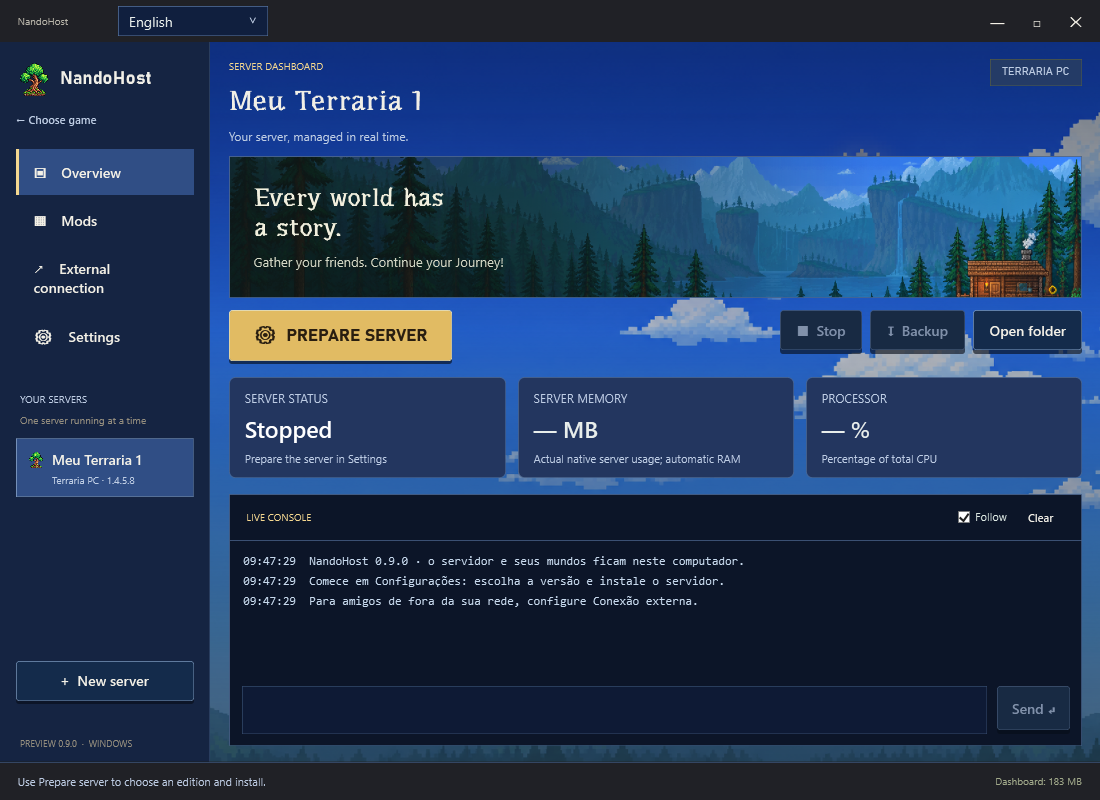
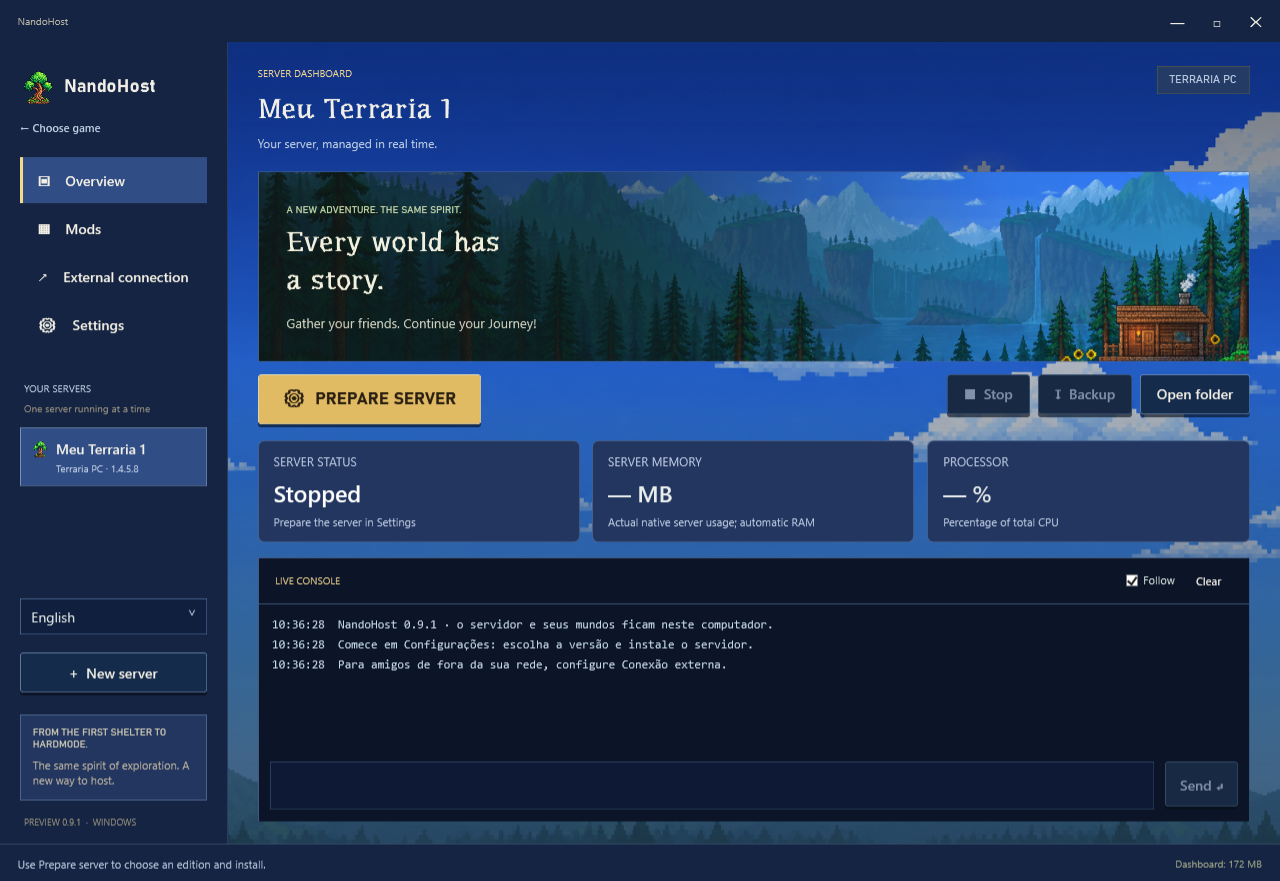
Blend window chrome into game themes and move language selection into interface

diff --git a/src/NandoHost.App/MainWindow.xaml b/src/NandoHost.App/MainWindow.xaml
@@ -1,14 +1,24 @@
 <Window x:Class="NandoHost.App.MainWindow" xmlns="http://schemas.microsoft.com/winfx/2006/xaml/presentation" xmlns:x="http://schemas.microsoft.com/winfx/2006/xaml" xmlns:loc="clr-namespace:NandoHost.App" xmlns:shell="clr-namespace:System.Windows.Shell;assembly=PresentationFramework"
         Title="NandoHost" Icon="Assets/Icons/nandohost-red.ico" Style="{StaticResource {x:Type Window}}" Width="1280" Height="920" MinWidth="960" MinHeight="640" WindowStartupLocation="CenterScreen" WindowStyle="None" ResizeMode="CanResize">
+  <Window.Resources>
+    <Style x:Key="ChromeSurface" TargetType="Border">
+      <Setter Property="Background" Value="{DynamicResource SidebarSurface}"/>
+      <Style.Triggers>
+        <DataTrigger Binding="{Binding Visibility, ElementName=GameHome}" Value="Visible">
+          <Setter Property="Background" Value="#0C1721"/>
+        </DataTrigger>
+      </Style.Triggers>
+    </Style>
+  </Window.Resources>
   <shell:WindowChrome.WindowChrome>
     <shell:WindowChrome CaptionHeight="0" ResizeBorderThickness="6" GlassFrameThickness="0" CornerRadius="0" UseAeroCaptionButtons="False"/>
   </shell:WindowChrome.WindowChrome>
   <Border x:Name="WindowSurface" BorderThickness="0">
     <Grid>
       <Grid.RowDefinitions><RowDefinition Height="42"/><RowDefinition Height="*"/><RowDefinition Height="38"/></Grid.RowDefinitions>
-      <Border Grid.Row="0" Background="#202126" MouseLeftButtonDown="TitleDrag">
+      <Border x:Name="TitleSurface" Grid.Row="0" Style="{StaticResource ChromeSurface}" MouseLeftButtonDown="TitleDrag">
         <Grid Margin="18,0,4,0">
-          <ComboBox x:Name="LanguageBox" Width="150" Height="30" MinHeight="0" HorizontalAlignment="Left" VerticalAlignment="Center" Margin="100,0,0,0" Padding="8,3" SelectedValuePath="Tag" SelectionChanged="LanguageSelectionChanged" AutomationProperties.Name="Idioma / Language" ToolTip="Idioma / Language"><ComboBoxItem Content="Português (Brasil)" Tag="pt-BR"/><ComboBoxItem Content="English" Tag="en-US"/></ComboBox><TextBlock Text="NandoHost" FontSize="10" Foreground="#B8B5A9" VerticalAlignment="Center"/>
+          <TextBlock Text="NandoHost" FontSize="10" Foreground="#B8B5A9" VerticalAlignment="Center"/>
           <StackPanel Orientation="Horizontal" HorizontalAlignment="Right">
             <Button Style="{StaticResource Flat}" Content="—" Click="MinimizeClick" Padding="14,7" Background="Transparent" Margin="0" ToolTip="{loc:Translate Key=Text001}"/>
             <Button Style="{StaticResource Flat}" x:Name="MaximizeButton" Content="□" Click="MaximizeClick" Padding="14,7" Background="Transparent" Margin="0" ToolTip="{loc:Translate Key=Text002}"/>
@@ -32,7 +42,7 @@
               <Button x:Name="NetworkNav" Style="{StaticResource Nav}" Content="{loc:Translate Key=Text006}" Tag="2" Click="NavigateClick"/>
               <Button x:Name="SettingsNav" Style="{StaticResource Nav}" Content="{loc:Translate Key=Text007}" Tag="3" Click="NavigateClick"/>
             </StackPanel>
-            <StackPanel Grid.Row="2" Margin="4,32,0,12">
+            <StackPanel x:Name="ServerListHeading" Grid.Row="2" Margin="4,32,0,12">
               <TextBlock Text="{loc:Translate Key=Text008}" FontSize="10" Foreground="{DynamicResource Muted}"/>
               <TextBlock Text="{loc:Translate Key=Text009}" FontSize="10" Foreground="#938D7E" Margin="0,7,0,0"/>
             </StackPanel>
@@ -40,6 +50,7 @@
               <ListBox.ItemTemplate><DataTemplate><Grid><Grid.ColumnDefinitions><ColumnDefinition Width="25"/><ColumnDefinition Width="*"/></Grid.ColumnDefinitions><Image Width="18" Height="20" VerticalAlignment="Top" Margin="0,2,7,0"><Image.Style><Style TargetType="Image"><Setter Property="Source" Value="{StaticResource MinecraftGameImage}"/><Style.Triggers><DataTrigger Binding="{Binding IsTerraria}" Value="True"><Setter Property="Source" Value="{StaticResource TerrariaGameImage}"/></DataTrigger></Style.Triggers></Style></Image.Style></Image><StackPanel Grid.Column="1"><TextBlock ToolTip="{Binding Name}" Text="{Binding Name}" FontWeight="SemiBold" TextTrimming="CharacterEllipsis" TextWrapping="NoWrap"/><TextBlock FontSize="10" Foreground="{DynamicResource Muted}" Margin="0,5,0,0"><Run Text="{Binding EditionLabel, Mode=OneWay}"/><Run Text=" · "/><Run Text="{Binding MinecraftVersion}"/></TextBlock></StackPanel></Grid></DataTemplate></ListBox.ItemTemplate>
             </ListBox>
             <StackPanel Grid.Row="4">
+              <ComboBox x:Name="GameLanguageBox" Height="36" MinHeight="0" HorizontalAlignment="Stretch" VerticalAlignment="Center" Margin="0,0,0,6" Padding="8,3" SelectedValuePath="Tag" SelectionChanged="LanguageSelectionChanged" AutomationProperties.Name="Idioma / Language" ToolTip="Idioma / Language"><ComboBoxItem Content="Português (Brasil)" Tag="pt-BR"/><ComboBoxItem Content="English" Tag="en-US"/></ComboBox>
               <Button x:Name="NewButton" Content="{loc:Translate Key=Text010}" Click="NewServerClick" Margin="0,12,0,18"/>
               <Border x:Name="SidebarNote" BorderBrush="{DynamicResource CardBorder}" BorderThickness="1" Background="{StaticResource DirtBrush}" Padding="12" RenderOptions.EdgeMode="Aliased"><StackPanel><TextBlock x:Name="SidebarNoteTitle" Text="{loc:Translate Key=Text011}" FontFamily="Bahnschrift" FontSize="10" Foreground="#D7D2BC"/><TextBlock Text="{loc:Translate Key=Text012}" FontSize="11" Foreground="#C2B8A4" Margin="0,7,0,0"/></StackPanel></Border>
               <TextBlock Text="{loc:Translate Key=Text013}" FontSize="9" Foreground="#938D7E" Margin="4,15,0,0"/>
@@ -217,6 +228,11 @@
       </Grid>
       <Grid Grid.Row="1" x:Name="GameHome" Background="#07111A" Panel.ZIndex="10">
         <Grid.Resources>
+          <SolidColorBrush x:Key="InputSurface" Color="#09131C"/>
+          <SolidColorBrush x:Key="InputBorder" Color="#304450"/>
+          <SolidColorBrush x:Key="PopupSurface" Color="#10202D"/>
+          <SolidColorBrush x:Key="Muted" Color="#95ADBC"/>
+          <SolidColorBrush x:Key="Accent" Color="#E6B76C"/>
           <SolidColorBrush x:Key="TrackSurface" Color="#071019"/><SolidColorBrush x:Key="ThumbSurface" Color="#334E5F"/><SolidColorBrush x:Key="ThumbHover" Color="#658397"/>
           <Style x:Key="LibraryGame" TargetType="Button">
             <Setter Property="Foreground" Value="#E1E9ED"/><Setter Property="Background" Value="Transparent"/><Setter Property="BorderBrush" Value="Transparent"/><Setter Property="Margin" Value="0,0,0,3"/><Setter Property="Padding" Value="18,13"/><Setter Property="Cursor" Value="Hand"/>
@@ -247,13 +263,14 @@
         </Grid.Resources>
         <Grid.RowDefinitions><RowDefinition Height="76"/><RowDefinition Height="*"/></Grid.RowDefinitions>
         <Border Background="#0C1721" BorderBrush="#29404D" BorderThickness="0,0,0,1" Padding="26,0">
-          <Grid><Grid.ColumnDefinitions><ColumnDefinition Width="205"/><ColumnDefinition Width="*"/><ColumnDefinition Width="190"/></Grid.ColumnDefinitions>
+          <Grid><Grid.ColumnDefinitions><ColumnDefinition Width="205"/><ColumnDefinition Width="*"/><ColumnDefinition Width="185"/><ColumnDefinition Width="190"/></Grid.ColumnDefinitions>
             <TextBlock x:Name="HomeBrandName" FontFamily="Bahnschrift" FontSize="27" FontWeight="SemiBold" VerticalAlignment="Center" TextWrapping="NoWrap"><Run Text="Nando" Foreground="#F1F1E9"/><Run Text="Host" Foreground="#E9BE7D"/></TextBlock>
             <StackPanel Grid.Column="1" Orientation="Horizontal" VerticalAlignment="Center">
               <Button x:Name="MinecraftGameButton" Style="{StaticResource LibraryGame}" Click="HomeSelectGameClick" Tag="Minecraft" MouseEnter="LibraryIconHover" MouseLeave="LibraryIconHover" AutomationProperties.Name="{loc:Translate Key=Text157}" Padding="13,12" Margin="0,0,8,0"><StackPanel Orientation="Horizontal"><Image Source="{StaticResource MinecraftGameImage}" Width="23" Height="23" Margin="0,0,9,0" RenderTransformOrigin="0.5,0.5"/><TextBlock Text="Minecraft" FontSize="13" VerticalAlignment="Center"/></StackPanel></Button>
               <Button x:Name="TerrariaGameButton" Style="{StaticResource LibraryGame}" Click="HomeSelectGameClick" Tag="Terraria" MouseEnter="LibraryIconHover" MouseLeave="LibraryIconHover" AutomationProperties.Name="{loc:Translate Key=Text158}" Padding="13,12" Margin="0"><StackPanel Orientation="Horizontal"><Image Source="{StaticResource TerrariaGameImage}" Width="23" Height="23" Margin="0,0,9,0" RenderTransformOrigin="0.5,0.5"/><TextBlock Text="Terraria" FontSize="13" VerticalAlignment="Center"/></StackPanel></Button>
             </StackPanel>
-            <Grid Grid.Column="2" VerticalAlignment="Center"><TextBox x:Name="HomeGameSearch" AutomationProperties.Name="{loc:Translate Key=Text159}" ToolTip="{loc:Translate Key=Text159}" Background="#09131C" BorderBrush="#304450" Foreground="#E1E9EF" FontSize="12" Padding="30,9,10,9" TextChanged="HomeGameSearchChanged" MaxLength="80"/><TextBlock Text="⌕" FontSize="20" Foreground="#91A5B1" Margin="9,0,0,0" VerticalAlignment="Center" IsHitTestVisible="False"/><TextBlock Text="{loc:Translate Key=Text160}" Foreground="#8097A7" FontSize="11" Margin="32,0,0,0" VerticalAlignment="Center" IsHitTestVisible="False"><TextBlock.Style><Style TargetType="TextBlock"><Setter Property="Visibility" Value="Collapsed"/><Style.Triggers><DataTrigger Binding="{Binding Text, ElementName=HomeGameSearch}" Value=""><Setter Property="Visibility" Value="Visible"/></DataTrigger></Style.Triggers></Style></TextBlock.Style></TextBlock></Grid>
+            <ComboBox x:Name="LanguageBox" Grid.Column="2" Height="36" MinHeight="0" HorizontalAlignment="Stretch" VerticalAlignment="Center" Margin="0,0,12,0" Padding="8,3" SelectedValuePath="Tag" SelectionChanged="LanguageSelectionChanged" AutomationProperties.Name="Idioma / Language" ToolTip="Idioma / Language"><ComboBoxItem Content="Português (Brasil)" Tag="pt-BR"/><ComboBoxItem Content="English" Tag="en-US"/></ComboBox>
+            <Grid Grid.Column="3" VerticalAlignment="Center"><TextBox x:Name="HomeGameSearch" AutomationProperties.Name="{loc:Translate Key=Text159}" ToolTip="{loc:Translate Key=Text159}" Background="#09131C" BorderBrush="#304450" Foreground="#E1E9EF" FontSize="12" Padding="30,9,10,9" TextChanged="HomeGameSearchChanged" MaxLength="80"/><TextBlock Text="⌕" FontSize="20" Foreground="#91A5B1" Margin="9,0,0,0" VerticalAlignment="Center" IsHitTestVisible="False"/><TextBlock Text="{loc:Translate Key=Text160}" Foreground="#8097A7" FontSize="11" Margin="32,0,0,0" VerticalAlignment="Center" IsHitTestVisible="False"><TextBlock.Style><Style TargetType="TextBlock"><Setter Property="Visibility" Value="Collapsed"/><Style.Triggers><DataTrigger Binding="{Binding Text, ElementName=HomeGameSearch}" Value=""><Setter Property="Visibility" Value="Visible"/></DataTrigger></Style.Triggers></Style></TextBlock.Style></TextBlock></Grid>
           </Grid>
         </Border>
         <ScrollViewer Grid.Row="1" VerticalScrollBarVisibility="Auto" HorizontalScrollBarVisibility="Disabled">
@@ -321,7 +338,7 @@
           <TextBlock Text="{loc:Translate Key=Text014}" FontFamily="Bahnschrift" FontSize="11" Foreground="#BDCCAD" HorizontalAlignment="Center"/>
         </StackPanel>
       </Grid>
-      <Border Grid.Row="2" Background="#202126" BorderBrush="{DynamicResource SidebarBorder}" BorderThickness="0,1,0,0"><Grid Margin="18,0"><Grid.ColumnDefinitions><ColumnDefinition Width="*"/><ColumnDefinition Width="Auto"/><ColumnDefinition Width="Auto"/></Grid.ColumnDefinitions><TextBlock x:Name="StatusText" Text="{loc:Translate Key=Text177}" Foreground="{DynamicResource Muted}" FontSize="11" VerticalAlignment="Center" TextTrimming="CharacterEllipsis" TextWrapping="NoWrap"/><Button Style="{StaticResource Flat}" Grid.Column="1" x:Name="CancelButton" Content="{loc:Translate Key=Text178}" Click="CancelClick" Visibility="Collapsed" Padding="10,3" Background="Transparent" FontSize="11" Margin="10,3"/><TextBlock Grid.Column="2" x:Name="AppMemoryText" Text="{loc:Translate Key=Text179}" FontSize="10" Foreground="#A2AB8B" VerticalAlignment="Center" Margin="16,0,0,0"/></Grid></Border>
+      <Border x:Name="FooterSurface" Grid.Row="2" Style="{StaticResource ChromeSurface}" BorderBrush="{DynamicResource SidebarBorder}" BorderThickness="0,1,0,0"><Grid Margin="18,0"><Grid.ColumnDefinitions><ColumnDefinition Width="*"/><ColumnDefinition Width="Auto"/><ColumnDefinition Width="Auto"/></Grid.ColumnDefinitions><TextBlock x:Name="StatusText" Text="{loc:Translate Key=Text177}" Foreground="{DynamicResource Muted}" FontSize="11" VerticalAlignment="Center" TextTrimming="CharacterEllipsis" TextWrapping="NoWrap"/><Button Style="{StaticResource Flat}" Grid.Column="1" x:Name="CancelButton" Content="{loc:Translate Key=Text178}" Click="CancelClick" Visibility="Collapsed" Padding="10,3" Background="Transparent" FontSize="11" Margin="10,3"/><TextBlock Grid.Column="2" x:Name="AppMemoryText" Text="{loc:Translate Key=Text179}" FontSize="10" Foreground="#A2AB8B" VerticalAlignment="Center" Margin="16,0,0,0"/></Grid></Border>
     </Grid>
   </Border>
 </Window>

diff --git a/src/NandoHost.App/MainWindow.Language.cs b/src/NandoHost.App/MainWindow.Language.cs
@@ -14,7 +14,7 @@ public partial class MainWindow
 {
     private void LanguageSelectionChanged(object sender, SelectionChangedEventArgs e)
     {
-        if (!uiReady || LanguageBox.SelectedValue is not string language || language == CultureCode) return;
+        if (!uiReady || sender is not ComboBox selector || selector.SelectedValue is not string language || language == CultureCode) return;
         try
         {
             UiPreferencesStore.Save(store.Root, language);
@@ -22,7 +22,7 @@ public partial class MainWindow
         }
         catch (Exception error) when (error is IOException or UnauthorizedAccessException)
         {
-            LanguageBox.SelectedValue = CultureCode;
+            LanguageBox.SelectedValue = GameLanguageBox.SelectedValue = CultureCode;
             MessageBox.Show(this, Tr("Não foi possível salvar o idioma. Verifique a permissão de escrita na pasta Data."), "NandoHost", MessageBoxButton.OK, MessageBoxImage.Warning);
         }
     }
@@ -30,7 +30,7 @@ public partial class MainWindow
     private void OnLanguageChanged(object? sender, EventArgs e)
     {
         if (!uiReady || closed) return;
-        LanguageBox.SelectedValue = CultureCode;
+        LanguageBox.SelectedValue = GameLanguageBox.SelectedValue = CultureCode;
         CommandPopup.IsOpen = false;
         // Refresh presentation only. Never load/save a profile or reload its fields.
         UpdateControls();
@@ -66,6 +66,14 @@ public partial class MainWindow
             if (!condition) throw new InvalidOperationException(label);
             report.AppendLine("PASS " + label);
         }
+        UpdateLayout();
+        Check(LanguageBox.IsDescendantOf(GameHome) && GameLanguageBox.IsDescendantOf(GameSidebar), "language selectors belong to library and game interface");
+        Check(!LanguageBox.IsDescendantOf(TitleSurface) && !GameLanguageBox.IsDescendantOf(TitleSurface), "title bar contains no language selector");
+        var expectedChrome = GameHome.Visibility == Visibility.Visible
+            ? "#FF0C1721" : ((System.Windows.Media.SolidColorBrush)FindResource("SidebarSurface")).Color.ToString();
+        Check(((System.Windows.Media.SolidColorBrush)TitleSurface.Background).Color.ToString() == expectedChrome
+            && ((System.Windows.Media.SolidColorBrush)FooterSurface.Background).Color.ToString() == expectedChrome,
+            "title bar and footer follow visible theme " + expectedChrome);
         var before = File.ReadAllText(Path.Combine(store.Root, "profiles.json"));
         var selectedId = selected!.Id;
         var page = Pages.SelectedIndex; var home = GameHome.Visibility;
@@ -83,9 +91,11 @@ public partial class MainWindow
             PackQuery.Text = "Calamity";
             CommandBox.IsEnabled = true; CommandBox.Text = "say Olá friends"; CommandBox.CaretIndex = 6;
             commandHistory.Remember("list"); var historyCount = commandHistory.Count;
+            var useSidebar = false;
             foreach (var code in new[] { "en-US", "pt-BR", "en-US", "pt-BR" })
             {
-                LanguageBox.SelectedValue = code; UpdateLayout();
+                (useSidebar ? GameLanguageBox : LanguageBox).SelectedValue = code; useSidebar = !useSidebar; UpdateLayout();
+                Check(LanguageBox.SelectedValue?.ToString() == code && GameLanguageBox.SelectedValue?.ToString() == code, "both interface selectors stay synchronized " + code);
                 Check(CultureCode == code && UiPreferencesStore.Load(store.Root) == code, "language switch persists " + code);
                 Check(NameBox.Text == "Meu servidor / My server" && WorldNameBox.Text == "Meu mundo" && WorldPasswordBox.Password == "private-language-fixture" && PackQuery.Text == "Calamity", "draft fields and password preserved " + code);
                 Check(CommandBox.Text == "say Olá friends" && CommandBox.CaretIndex == 6 && commandHistory.Count == historyCount, "command, caret and history preserved " + code);

diff --git a/src/NandoHost.App/MainWindow.Responsive.cs b/src/NandoHost.App/MainWindow.Responsive.cs
@@ -34,6 +34,10 @@ public partial class MainWindow
         WorkspaceContent.Margin = narrow ? new Thickness(18, 18, 18, 16) : new Thickness(30, 25, 30, 22);
         PageHeader.Margin = new Thickness(0, 0, 0, compact ? 12 : 20);
         SidebarNote.Visibility = compact ? Visibility.Collapsed : Visibility.Visible;
+        foreach (var navigation in new[] { DashboardNav, PacksNav, NetworkNav, SettingsNav })
+            navigation.Padding = new Thickness(14, compact ? 10 : 14, 14, compact ? 10 : 14);
+        ServerListHeading.Margin = new Thickness(4, compact ? 20 : 32, 0, 12);
+        NewButton.Margin = compact ? new Thickness(0, 6, 0, 8) : new Thickness(0, 12, 0, 18);
         HeroRow.Height = new GridLength(compact ? 142 : 190);
         HeroContent.Margin = compact ? new Thickness(24, 12, 0, 12) : new Thickness(28, 22, 0, 20);
         HeroEyebrow.Visibility = compact ? Visibility.Collapsed : Visibility.Visible;
@@ -71,6 +75,7 @@ public partial class MainWindow
             foreach (var size in new[] { new Size(960, 640), new Size(1100, 800), new Size(1280, 920), new Size(1600, 900) })
             {
                 Width = size.Width; Height = size.Height; Navigate(0); Settle();
+                Check(ServerList.ActualHeight >= 56, $"server list shows a complete profile at {size}: {ServerList.ActualHeight}");
                 Check(ConsolePanel.ActualHeight >= 200, $"console remains usable at {size}: {ConsolePanel.ActualHeight}");
                 Check(SecondaryActions.ActualWidth <= WorkspaceContent.ActualWidth, $"actions fit at {size}");
                 OverviewScroll.ScrollToBottom(); UpdateLayout();

diff --git a/src/NandoHost.App/MainWindow.xaml.cs b/src/NandoHost.App/MainWindow.xaml.cs
@@ -58,7 +58,7 @@ public partial class MainWindow : Window
         allowSmokeCatalog = smoke && liveCatalog;
         Localizer.SetCulture(smoke ? "pt-BR" : UiPreferencesStore.Load(dataFolder));
         InitializeComponent();
-        LanguageBox.SelectedValue = Localizer.CultureCode;
+        LanguageBox.SelectedValue = GameLanguageBox.SelectedValue = Localizer.CultureCode;
         PreviewKeyDown += EntryKeyDown;
         NativeWindowTheme.Attach(this);
         SizeChanged += ResponsiveSizeChanged;
@@ -118,7 +118,7 @@ public partial class MainWindow : Window
                 }
             };
         }
-        runner.Message(Tr("NandoHost 0.9.0 · o servidor e seus mundos ficam neste computador."));
+        runner.Message(Tr("NandoHost 0.9.1 · o servidor e seus mundos ficam neste computador."));
         runner.Message(Tr("Comece em Configurações: escolha a versão e instale o servidor."));
         runner.Message(Tr("Para amigos de fora da sua rede, configure Conexão externa."));
         if (!selected!.Installed) Navigate(3);

diff --git a/src/NandoHost.App/LocalizationKeys.cs b/src/NandoHost.App/LocalizationKeys.cs
@@ -16,7 +16,7 @@ internal static class LocalizationKeys
         ["Text010"] = "+  Novo servidor",
         ["Text011"] = "DESDE A PRIMEIRA CABANA.",
         ["Text012"] = "O mesmo esp\u00edrito de explorar. Um novo jeito de hospedar.",
-        ["Text013"] = "PR\u00c9VIA 0.9.0  \u00b7  WINDOWS",
+        ["Text013"] = "PR\u00c9VIA 0.9.1  \u00b7  WINDOWS",
         ["Text014"] = "PAINEL DO SERVIDOR",
         ["Text015"] = "Vamos criar seu mundo.",
         ["Text016"] = "Tudo o que voc\u00ea precisa para hospedar no seu PC.",

diff --git a/README.en.md b/README.en.md
@@ -10,7 +10,7 @@
 <p align="center">
   <img src="docs/images/badges/windows.svg" alt="Windows" />
   <img src="docs/images/badges/dotnet.svg" alt="C# · WPF · .NET 10" />
-  <img src="docs/images/badges/version.svg" alt="Preview 0.9.0" />
+  <img src="docs/images/badges/version.svg" alt="Preview 0.9.1" />
   <img src="docs/images/badges/private.svg" alt="Private repository" />
 </p>
 
@@ -27,7 +27,7 @@
 
 **NandoHost** brings installation, console access, mods, process metrics and backups together so you can host games on your own computer. You can play while the server is running, within your machine's available resources.
 
-**In development · version 0.9.0 · private repository.** The presentation follows the app's deep blue and gold palette and its game landscapes.
+**In development · version 0.9.1 · private repository.** The presentation follows the app's deep blue and gold palette and its game landscapes.
 
 ## Features
 
@@ -48,7 +48,7 @@ See [project status](docs/STATUS.md) for details and limitations. The supporting
 
 ## Languages
 
-**Português (Brasil)** and **English** are available from version **0.9.0**. Use the language selector in the top bar. Existing server and world names and game console output remain unchanged. See [localization details](docs/LOCALIZATION.md).
+**Português (Brasil)** and **English** are available from version **0.9.0**. Use the language selector in the library header or the game sidebar. Existing server and world names and game console output remain unchanged. See [localization details](docs/LOCALIZATION.md).
 
 ## Interface
 
@@ -69,7 +69,7 @@ The library includes a selected-game spotlight, interactive covers, search and s
 5. Start the server and follow the console. Configure a compatible mod profile before creating a modded world.
 6. For players outside your network, configure **Conexão externa** and share the correct address and port.
 
-The app requires Windows and .NET Desktop Runtime 10. Minecraft Java may require a compatible Java installation. Leave room for worlds, backups and downloads. Select Portuguese (Brazil) or English in the top bar. The choice is saved and takes effect without restarting; draft fields, passwords and commands are preserved.
+The app requires Windows and .NET Desktop Runtime 10. Minecraft Java may require a compatible Java installation. Leave room for worlds, backups and downloads. Select Portuguese (Brazil) or English in the library header or the game sidebar. The choice is saved and takes effect without restarting; draft fields, passwords and commands are preserved.
 
 The app creates **`Data` next to its executable**. To update, close the application and copy the previous `Data` folder into the new package's `app/Data`. Keep a backup and do not run two copies against the same data.
 
@@ -98,9 +98,11 @@ To build a distribution:
 .\scripts\Package.ps1
 ```
 
-Output: `dist/NandoHost-0.9.0-Windows.zip`. Packaging uses a fresh staging folder and does not include worlds, credentials or `Data`.
+Output: `dist/NandoHost-0.9.1-Windows.zip`. Packaging uses a fresh staging folder and does not include worlds, credentials or `Data`.
 
 ## Verification
+
+In **0.9.1**, window chrome follows the active theme and language selection moves into the interface. See [UI validation](docs/validation/INTERFACE-0.9.1.md).
 
 In **0.9.0**, **all 60 core checks passed**, including language preferences, formatting parameters, unchanged profiles and command tokens. UI checks also covered switching both ways without losing draft fields, passwords or command history. See [the validation report](docs/validation/LOCALIZATION-0.9.0.md).
 

diff --git a/docs/validation/INTERFACE-0.9.1.md b/docs/validation/INTERFACE-0.9.1.md
@@ -1,0 +1,15 @@
+# Interface 0.9.1
+
+Verificado em 21/10/2026, Windows, .NET 10.
+
+- Compilação Release e publicação concluídas.
+- Biblioteca em português e inglês: controles de jogo, busca e idioma visíveis, sem quebra no nome do idioma.
+- Barra de título e rodapé usam o azul da biblioteca e acompanham os temas de Minecraft, Terraria e Calamity.
+- Os dois seletores ficam dentro da interface e permanecem sincronizados.
+- Troca PT/EN nos dois sentidos preserva campos, senhas, comandos, histórico e perfis; a preferência permanece salva.
+- Redimensionamento em 960×640, 1100×800, 1280×920 e 1600×900 nos três temas: ao menos um perfil completo permanece visível; a lista permite rolagem.
+- Console e ações permanecem acessíveis por rolagem. Maximização respeita a área útil do monitor e a barra de tarefas.
+- Minimizar e restaurar não inicia servidor nem túnel.
+- Capturas revisadas na biblioteca e nos três temas, incluindo janela compacta.
+
+Os testes de interface usam perfis temporários. Não houve sessão real de jogo ou conexão pública nesta revisão. O núcleo não recebeu mudanças funcionais; os 60 testes registrados na versão 0.9.0 continuam documentados no relatório anterior.

diff --git a/docs/LOCALIZATION.md b/docs/LOCALIZATION.md
@@ -4,7 +4,7 @@ Disponíveis a partir da versão **0.9.0**: Português (Brasil) e English.
 
 ## Usar
 
-O seletor fica na barra superior, ao lado do nome NandoHost. A troca é imediata e não exige reiniciar. No primeiro uso, o aplicativo usa português quando o idioma do sistema começa com pt; nos demais casos, usa inglês. Depois disso, prevalece a escolha salva.
+Desde a versão 0.9.1, o seletor fica no cabeçalho da biblioteca e na parte inferior da lateral dentro de cada jogo. Os dois controles mantêm a mesma seleção. A troca é imediata e não exige reiniciar. No primeiro uso, o aplicativo usa português quando o idioma do sistema começa com pt; nos demais casos, usa inglês. Depois disso, prevalece a escolha salva.
 
 A preferência fica em Data/ui-settings.json, separada dos perfis. O salvamento usa um arquivo temporário e substituição do arquivo final. Uma preferência ausente, inválida ou ilegível usa o idioma inicial do sistema. Se não for possível salvar uma nova escolha, o aplicativo mantém a anterior e informa o problema.
 

diff --git a/CHANGELOG.md b/CHANGELOG.md
@@ -1,5 +1,11 @@
 # Alterações
 
+## 0.9.1
+
+- Barra de título e rodapé integrados às cores da biblioteca, Minecraft, Terraria e Calamity.
+- Seletor de idioma no cabeçalho da biblioteca e na lateral de cada jogo, com seleção sincronizada.
+- Mais espaço para a lista de servidores em janelas pequenas.
+
 ## 0.9.0
 
 - Seleção de Português (Brasil) e English na barra superior, sem reiniciar o aplicativo.

diff --git a/docs/STATUS.md b/docs/STATUS.md
@@ -1,6 +1,6 @@
 # Estado do projeto
 
-Versão atual: **0.9.0**, com seleção de português e inglês.
+Versão atual: **0.9.1**, com barras integradas ao tema e idioma na interface da biblioteca e dos jogos.
 
 Base inicial deste repositório: **NandoHost 0.8.9**. A organização em `src`, `tests`, `docs` e `scripts` não altera o formato dos perfis nem o comportamento dos jogos.
 
